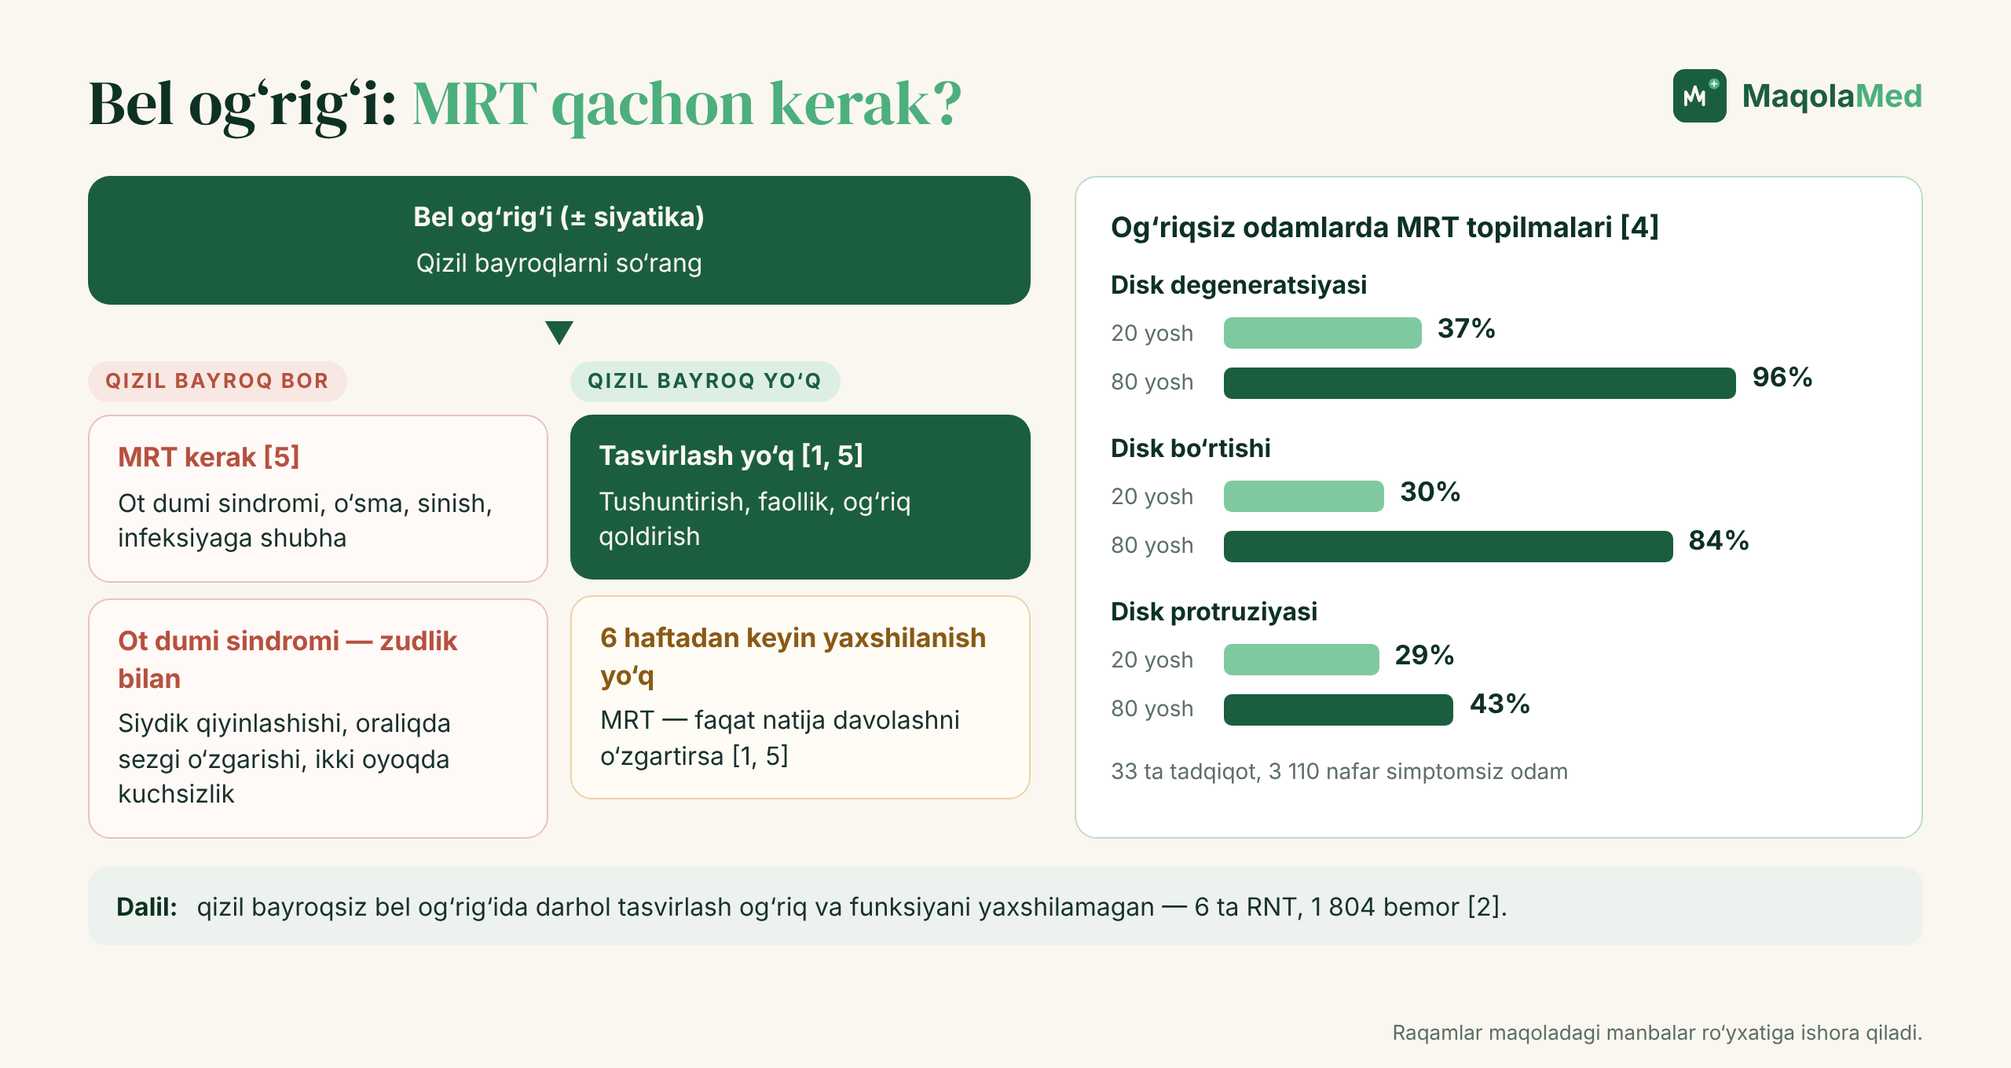
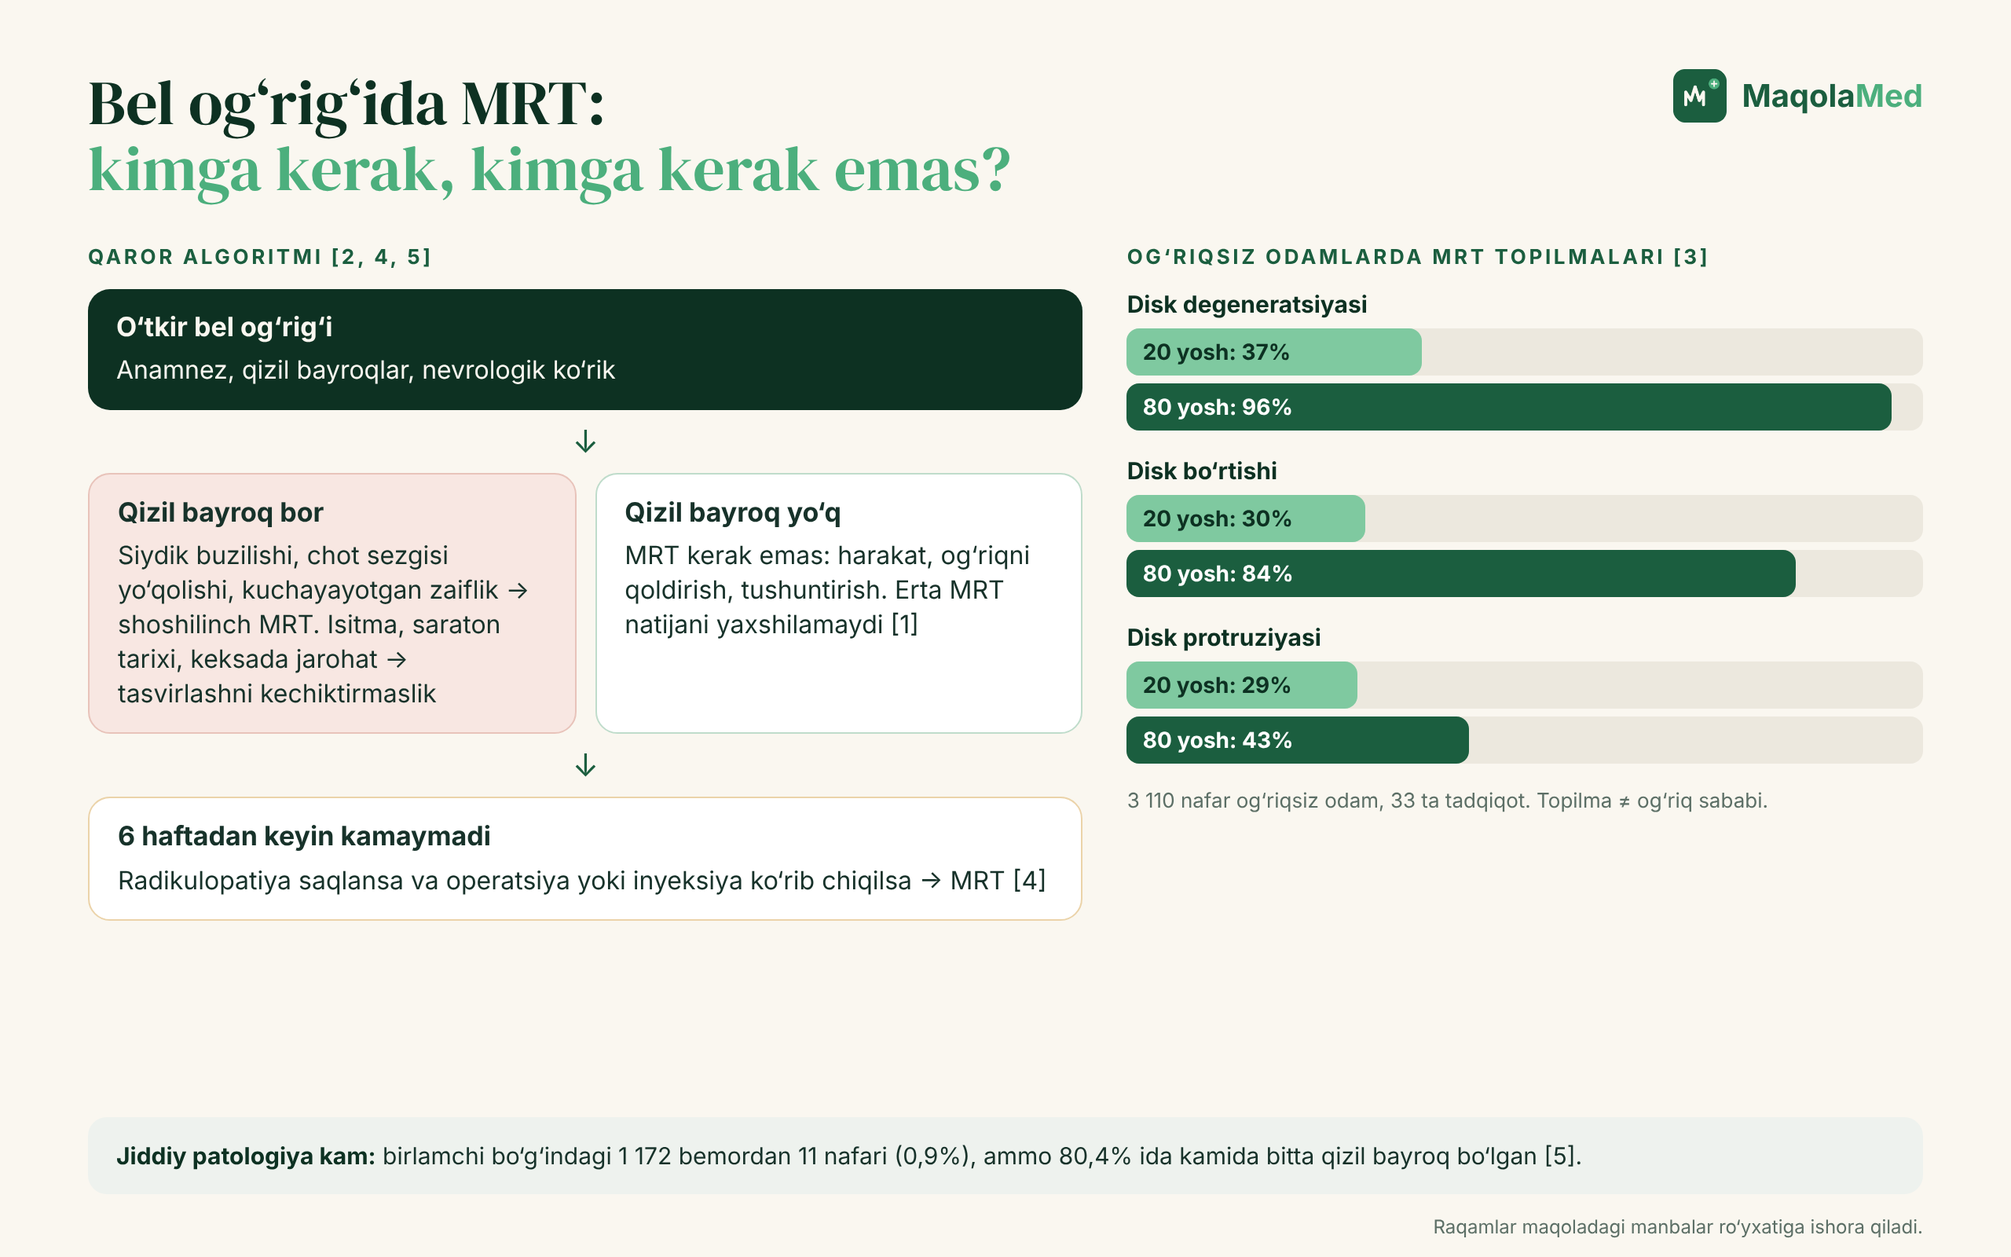
13-dekabr maqolasi qayta yozildi (v2, humanizer): bel og‘rig‘ida MRT — muqovalar, 1 rasm

diff --git a/_manba/2026-12-13/muqova-instagram-4x5.html b/_manba/2026-12-13/muqova-instagram-4x5.html
@@ -1,0 +1,87 @@
+<!doctype html>
+<html lang="uz">
+<head><base href="file:///home/claude/maqolamed-rasmlar/_shablon/">
+<meta charset="utf-8">
+<style>
+@font-face{font-family:"DM Serif Display";src:url("fonts/dm-serif-display-latin-400-normal.woff2") format("woff2");}
+@font-face{font-family:"DM Serif Display";src:url("fonts/dm-serif-display-latin-ext-400-normal.woff2") format("woff2");unicode-range:U+0100-024F,U+1E00-1EFF;}
+:root{
+  --emerald:#1B5E3F; --deep:#0D3122; --cream:#FAF7F0; --mint:#7FC9A0; --green:#4CAF7D;
+}
+*{margin:0;padding:0;box-sizing:border-box}
+html,body{width:1280px;height:720px;overflow:hidden;background:var(--deep)}
+.cover{position:relative;width:1280px;height:720px;overflow:hidden;font-family:"Inter",sans-serif;color:var(--cream);
+  background:
+    radial-gradient(900px 600px at 78% 40%, rgba(76,175,125,.22), transparent 60%),
+    radial-gradient(700px 500px at 0% 100%, rgba(13,49,34,.9), transparent 70%),
+    linear-gradient(135deg,#123F2C 0%, #1B5E3F 55%, #164D34 100%);}
+.grid{position:absolute;inset:0;background-image:
+    linear-gradient(rgba(250,247,240,.035) 1px,transparent 1px),
+    linear-gradient(90deg,rgba(250,247,240,.035) 1px,transparent 1px);
+  background-size:40px 40px;}
+.ekg{position:absolute;left:0;top:300px;width:1280px;height:200px;opacity:.16}
+.left{position:absolute;left:64px;top:52px;width:690px}
+.brand{display:flex;align-items:center;gap:28px}
+.brand img{height:62px;display:block}
+.tag{display:flex;align-items:center;gap:14px;font-size:13px;letter-spacing:.32em;color:rgba(250,247,240,.72);font-weight:500}
+.tag i{width:4px;height:4px;border-radius:50%;background:var(--mint);display:inline-block}
+.tag .line{width:90px;height:1px;background:rgba(250,247,240,.35)}
+.kicker{margin-top:54px;display:inline-flex;align-items:center;gap:10px;font-size:15px;font-weight:600;letter-spacing:.14em;text-transform:uppercase;color:var(--mint)}
+.kicker span{display:inline-block;width:28px;height:2px;background:var(--mint)}
+h1{margin-top:16px;font-family:"DM Serif Display",serif;font-weight:400;font-size:78px;line-height:.98;letter-spacing:-.01em;color:var(--cream)}
+h1 em{font-style:normal;color:var(--mint)}
+.sub{margin-top:22px;font-size:21px;color:rgba(250,247,240,.82);font-weight:400}
+.points{position:absolute;left:64px;bottom:50px;display:flex;gap:0}
+.pt{width:172px;padding-right:18px;display:flex;flex-direction:column;align-items:flex-start;gap:12px}
+.pt + .pt{padding-left:22px;border-left:1px solid rgba(250,247,240,.18)}
+.ic{width:52px;height:52px;border-radius:50%;border:1.6px solid rgba(250,247,240,.75);display:grid;place-items:center}
+.ic svg{width:26px;height:26px;stroke:var(--cream);fill:none;stroke-width:1.7;stroke-linecap:round;stroke-linejoin:round}
+.pt p{font-size:15px;line-height:1.3;color:rgba(250,247,240,.92);font-weight:500}
+.card{position:absolute;right:56px;top:96px;width:400px;border-radius:22px;padding:28px 30px 26px;
+  background:linear-gradient(160deg,rgba(13,49,34,.82),rgba(13,49,34,.62));
+  border:1px solid rgba(127,201,160,.35);box-shadow:0 30px 60px rgba(0,0,0,.35)}
+.card .ch{display:flex;justify-content:space-between;align-items:center}
+.card .lbl{font-size:12px;letter-spacing:.24em;font-weight:600;color:var(--mint)}
+.card .pill{font-size:12px;font-weight:600;padding:5px 10px;border-radius:999px;background:rgba(127,201,160,.16);color:var(--mint)}
+.card h3{margin-top:14px;font-size:22px;font-weight:600}
+.card h3 small{display:block;margin-top:4px;font-size:14px;font-weight:400;color:rgba(250,247,240,.65)}
+.rows{margin-top:18px;border-top:1px solid rgba(250,247,240,.14)}
+.row{display:flex;justify-content:space-between;padding:9px 0;border-bottom:1px solid rgba(250,247,240,.10);font-size:16px}
+.row span:first-child{color:rgba(250,247,240,.68)}
+.row span:last-child{font-weight:600;font-variant-numeric:tabular-nums}
+.row .ok{color:var(--mint)}
+.quote{margin-top:18px;font-family:"DM Serif Display",serif;font-size:21px;line-height:1.25;color:var(--cream)}
+.ask{margin-top:16px;display:flex;align-items:center;justify-content:space-between;padding:13px 16px;border-radius:12px;background:var(--green);color:#0D3122;font-weight:700;font-size:17px}
+.ask svg{width:22px;height:22px;stroke:#0D3122;fill:none;stroke-width:2.2;stroke-linecap:round;stroke-linejoin:round}
+
+html,body{width:1080px;height:1350px}
+.cover{width:1080px;height:1350px}
+.ekg{top:525px;width:1080px}
+.left{left:72px;top:64px;width:940px}
+.brand img{height:72px}
+h1{font-size:96px;margin-top:18px}
+.kicker{margin-top:56px;font-size:17px}
+.sub{font-size:24px}
+.card{left:72px;right:72px;top:auto;bottom:250px;width:auto;padding:30px 34px}
+.rows{display:grid;grid-template-columns:1fr 1fr;column-gap:40px}
+.quote{font-size:24px}
+.points{left:72px;right:72px;bottom:60px}
+.pt{width:auto;flex:1}
+.pt p{font-size:17px}
+
+
+
+h1{font-size:100px}
+</style>
+</head>
+<body><div class="cover"><div class="grid"></div>
+<svg class="ekg" viewBox="0 0 1280 200" preserveAspectRatio="none"><polyline fill="none" stroke="#7FC9A0" stroke-width="3" stroke-linejoin="round" stroke-linecap="round" points="0,120 640,120 670,120 690,98 710,120 750,120 770,40 795,175 820,120 880,120 905,102 930,120 1280,120"/></svg>
+<div class="left"><div class="brand"><img src="logo_dark_bg.png" alt="MaqolaMed"></div>
+<div class="tag" style="margin-top:22px"><span>ILM</span><i></i><span>AMALIYOT</span><i></i><span>ODAM UCHUN</span><span class="line"></span></div>
+<div class="kicker"><span></span>Klinik savol · Nevrologiya</div>
+<h1>Bel og‘rig‘ida<br>MRT qachon<br><em>kerak?</em></h1>
+<div class="sub">MRT tasvirni ko‘rsatadi, og‘riq sababini emas.</div></div>
+<div class="points"><div class="pt"><div class="ic"><svg viewBox="0 0 24 24"><circle cx="12" cy="12" r="9"/><path d="M9.5 9.5a2.5 2.5 0 1 1 3.5 2.3c-.7.3-1 .8-1 1.5v.7"/><path d="M12 17v.5"/></svg></div><p>Erta MRT foyda beradimi?</p></div><div class="pt"><div class="ic"><svg viewBox="0 0 24 24"><path d="M4 20V4"/><path d="M4 20h16"/><path d="M8 16l4-5 3 3 5-7"/></svg></div><p>Og‘riqsiz odamda «churra»?</p></div><div class="pt"><div class="ic"><svg viewBox="0 0 24 24"><path d="M12 3l9.5 17h-19z"/><path d="M12 10v4"/><path d="M12 17v.5"/></svg></div><p>Qaysi qizil bayroqlar?</p></div><div class="pt"><div class="ic"><svg viewBox="0 0 24 24"><circle cx="12" cy="12" r="9"/><path d="M12 7v5l3 2"/></svg></div><p>6 haftadan keyin nima?</p></div></div>
+<div class="card"><div class="ch"><span class="lbl">OG‘RIQSIZ ODAMLARDA</span><span class="pill">MRT</span></div>
+<h3>Topilmalar 20 → 80 yosh<small>Brinjikji 2015 · 3 110 kishi</small></h3><div class="rows"><div class="row"><span>Disk degeneratsiyasi</span><span class="ok">37% → 96%</span></div><div class="row"><span>Disk bo‘rtishi</span><span class="">30% → 84%</span></div><div class="row"><span>Protruziya</span><span class="">29% → 43%</span></div><div class="row"><span>Jiddiy sabab (bel og‘rig‘ida)</span><span class="ok">0,9%</span></div></div><div class="quote">«Doktor, operatsiya kerakmi?»</div><div class="ask">Siz nima qilardingiz?<svg viewBox="0 0 24 24"><path d="M5 12h14"/><path d="M13 6l6 6-6 6"/></svg></div></div>
+</div></body></html>

diff --git a/_manba/2026-12-13/muqova-16x9.html b/_manba/2026-12-13/muqova-16x9.html
@@ -1,0 +1,70 @@
+<!doctype html>
+<html lang="uz">
+<head><base href="file:///home/claude/maqolamed-rasmlar/_shablon/">
+<meta charset="utf-8">
+<style>
+@font-face{font-family:"DM Serif Display";src:url("fonts/dm-serif-display-latin-400-normal.woff2") format("woff2");}
+@font-face{font-family:"DM Serif Display";src:url("fonts/dm-serif-display-latin-ext-400-normal.woff2") format("woff2");unicode-range:U+0100-024F,U+1E00-1EFF;}
+:root{
+  --emerald:#1B5E3F; --deep:#0D3122; --cream:#FAF7F0; --mint:#7FC9A0; --green:#4CAF7D;
+}
+*{margin:0;padding:0;box-sizing:border-box}
+html,body{width:1280px;height:720px;overflow:hidden;background:var(--deep)}
+.cover{position:relative;width:1280px;height:720px;overflow:hidden;font-family:"Inter",sans-serif;color:var(--cream);
+  background:
+    radial-gradient(900px 600px at 78% 40%, rgba(76,175,125,.22), transparent 60%),
+    radial-gradient(700px 500px at 0% 100%, rgba(13,49,34,.9), transparent 70%),
+    linear-gradient(135deg,#123F2C 0%, #1B5E3F 55%, #164D34 100%);}
+.grid{position:absolute;inset:0;background-image:
+    linear-gradient(rgba(250,247,240,.035) 1px,transparent 1px),
+    linear-gradient(90deg,rgba(250,247,240,.035) 1px,transparent 1px);
+  background-size:40px 40px;}
+.ekg{position:absolute;left:0;top:300px;width:1280px;height:200px;opacity:.16}
+.left{position:absolute;left:64px;top:52px;width:690px}
+.brand{display:flex;align-items:center;gap:28px}
+.brand img{height:62px;display:block}
+.tag{display:flex;align-items:center;gap:14px;font-size:13px;letter-spacing:.32em;color:rgba(250,247,240,.72);font-weight:500}
+.tag i{width:4px;height:4px;border-radius:50%;background:var(--mint);display:inline-block}
+.tag .line{width:90px;height:1px;background:rgba(250,247,240,.35)}
+.kicker{margin-top:54px;display:inline-flex;align-items:center;gap:10px;font-size:15px;font-weight:600;letter-spacing:.14em;text-transform:uppercase;color:var(--mint)}
+.kicker span{display:inline-block;width:28px;height:2px;background:var(--mint)}
+h1{margin-top:16px;font-family:"DM Serif Display",serif;font-weight:400;font-size:78px;line-height:.98;letter-spacing:-.01em;color:var(--cream)}
+h1 em{font-style:normal;color:var(--mint)}
+.sub{margin-top:22px;font-size:21px;color:rgba(250,247,240,.82);font-weight:400}
+.points{position:absolute;left:64px;bottom:50px;display:flex;gap:0}
+.pt{width:172px;padding-right:18px;display:flex;flex-direction:column;align-items:flex-start;gap:12px}
+.pt + .pt{padding-left:22px;border-left:1px solid rgba(250,247,240,.18)}
+.ic{width:52px;height:52px;border-radius:50%;border:1.6px solid rgba(250,247,240,.75);display:grid;place-items:center}
+.ic svg{width:26px;height:26px;stroke:var(--cream);fill:none;stroke-width:1.7;stroke-linecap:round;stroke-linejoin:round}
+.pt p{font-size:15px;line-height:1.3;color:rgba(250,247,240,.92);font-weight:500}
+.card{position:absolute;right:56px;top:96px;width:400px;border-radius:22px;padding:28px 30px 26px;
+  background:linear-gradient(160deg,rgba(13,49,34,.82),rgba(13,49,34,.62));
+  border:1px solid rgba(127,201,160,.35);box-shadow:0 30px 60px rgba(0,0,0,.35)}
+.card .ch{display:flex;justify-content:space-between;align-items:center}
+.card .lbl{font-size:12px;letter-spacing:.24em;font-weight:600;color:var(--mint)}
+.card .pill{font-size:12px;font-weight:600;padding:5px 10px;border-radius:999px;background:rgba(127,201,160,.16);color:var(--mint)}
+.card h3{margin-top:14px;font-size:22px;font-weight:600}
+.card h3 small{display:block;margin-top:4px;font-size:14px;font-weight:400;color:rgba(250,247,240,.65)}
+.rows{margin-top:18px;border-top:1px solid rgba(250,247,240,.14)}
+.row{display:flex;justify-content:space-between;padding:9px 0;border-bottom:1px solid rgba(250,247,240,.10);font-size:16px}
+.row span:first-child{color:rgba(250,247,240,.68)}
+.row span:last-child{font-weight:600;font-variant-numeric:tabular-nums}
+.row .ok{color:var(--mint)}
+.quote{margin-top:18px;font-family:"DM Serif Display",serif;font-size:21px;line-height:1.25;color:var(--cream)}
+.ask{margin-top:16px;display:flex;align-items:center;justify-content:space-between;padding:13px 16px;border-radius:12px;background:var(--green);color:#0D3122;font-weight:700;font-size:17px}
+.ask svg{width:22px;height:22px;stroke:#0D3122;fill:none;stroke-width:2.2;stroke-linecap:round;stroke-linejoin:round}
+
+h1{font-size:76px}
+</style>
+</head>
+<body><div class="cover"><div class="grid"></div>
+<svg class="ekg" viewBox="0 0 1280 200" preserveAspectRatio="none"><polyline fill="none" stroke="#7FC9A0" stroke-width="3" stroke-linejoin="round" stroke-linecap="round" points="0,120 640,120 670,120 690,98 710,120 750,120 770,40 795,175 820,120 880,120 905,102 930,120 1280,120"/></svg>
+<div class="left"><div class="brand"><img src="logo_dark_bg.png" alt="MaqolaMed"></div>
+<div class="tag" style="margin-top:22px"><span>ILM</span><i></i><span>AMALIYOT</span><i></i><span>ODAM UCHUN</span><span class="line"></span></div>
+<div class="kicker"><span></span>Klinik savol · Nevrologiya</div>
+<h1>Bel og‘rig‘ida<br>MRT qachon<br><em>kerak?</em></h1>
+<div class="sub">MRT tasvirni ko‘rsatadi, og‘riq sababini emas.</div></div>
+<div class="points"><div class="pt"><div class="ic"><svg viewBox="0 0 24 24"><circle cx="12" cy="12" r="9"/><path d="M9.5 9.5a2.5 2.5 0 1 1 3.5 2.3c-.7.3-1 .8-1 1.5v.7"/><path d="M12 17v.5"/></svg></div><p>Erta MRT foyda beradimi?</p></div><div class="pt"><div class="ic"><svg viewBox="0 0 24 24"><path d="M4 20V4"/><path d="M4 20h16"/><path d="M8 16l4-5 3 3 5-7"/></svg></div><p>Og‘riqsiz odamda «churra»?</p></div><div class="pt"><div class="ic"><svg viewBox="0 0 24 24"><path d="M12 3l9.5 17h-19z"/><path d="M12 10v4"/><path d="M12 17v.5"/></svg></div><p>Qaysi qizil bayroqlar?</p></div><div class="pt"><div class="ic"><svg viewBox="0 0 24 24"><circle cx="12" cy="12" r="9"/><path d="M12 7v5l3 2"/></svg></div><p>6 haftadan keyin nima?</p></div></div>
+<div class="card"><div class="ch"><span class="lbl">OG‘RIQSIZ ODAMLARDA</span><span class="pill">MRT</span></div>
+<h3>Topilmalar 20 → 80 yosh<small>Brinjikji 2015 · 3 110 kishi</small></h3><div class="rows"><div class="row"><span>Disk degeneratsiyasi</span><span class="ok">37% → 96%</span></div><div class="row"><span>Disk bo‘rtishi</span><span class="">30% → 84%</span></div><div class="row"><span>Protruziya</span><span class="">29% → 43%</span></div><div class="row"><span>Jiddiy sabab (bel og‘rig‘ida)</span><span class="ok">0,9%</span></div></div><div class="quote">«Doktor, operatsiya kerakmi?»</div><div class="ask">Siz nima qilardingiz?<svg viewBox="0 0 24 24"><path d="M5 12h14"/><path d="M13 6l6 6-6 6"/></svg></div></div>
+</div></body></html>

diff --git a/_manba/2026-12-13/1-rasm.html b/_manba/2026-12-13/1-rasm.html
@@ -1,0 +1,53 @@
+<!doctype html><html lang="uz"><head><meta charset="utf-8"><base href="file:///home/claude/maqolamed-rasmlar/_shablon/">
+<style>
+@font-face{font-family:"DM Serif Display";src:url("fonts/dm-serif-display-latin-400-normal.woff2") format("woff2");}
+@font-face{font-family:"DM Serif Display";src:url("fonts/dm-serif-display-latin-ext-400-normal.woff2") format("woff2");unicode-range:U+0100-024F,U+1E00-1EFF;}
+:root{--emerald:#1B5E3F;--deep:#0D3122;--cream:#FAF7F0;--mint:#7FC9A0;--green:#4CAF7D;--ink:#17322A;--muted:#5C6F66;--amber:#C98A2E;--amberbg:#FBF1E1;--red:#B5513F;--redbg:#F8E7E2;--tint:#E6F3EC}
+*{margin:0;padding:0;box-sizing:border-box}
+html,body{width:1280px;height:var(--H,900px);background:var(--cream);overflow:hidden}
+.fig{position:relative;width:1280px;height:var(--H,900px);padding:44px 56px;font-family:"Inter",sans-serif;color:var(--ink)}
+.top{display:flex;justify-content:space-between;align-items:flex-start;margin-bottom:28px}
+h1{font-family:"DM Serif Display",serif;font-weight:400;font-size:40px;line-height:1.05;color:var(--deep)}
+h1 em{font-style:normal;color:var(--green)}
+.brand{display:flex;align-items:center;gap:10px;font-weight:700;font-size:20px;color:var(--emerald)}
+.brand img{height:34px}.brand b{color:var(--green);font-weight:700}
+table{width:100%;border-collapse:separate;border-spacing:0 8px;font-size:16px;line-height:1.35}
+th{text-align:left;font-size:12px;letter-spacing:.14em;text-transform:uppercase;color:var(--muted);padding:0 18px 2px;font-weight:700}
+td{background:#fff;padding:13px 18px;vertical-align:middle}
+td:first-child{border-radius:12px 0 0 12px;font-weight:700;color:var(--deep)}
+td:last-child{border-radius:0 12px 12px 0}
+td.new{background:var(--tint)} td.same{background:#F1EEE6;color:var(--muted)}
+td.warn{background:var(--redbg)}
+.badge{display:inline-block;font-size:11px;font-weight:700;letter-spacing:.08em;padding:4px 9px;border-radius:999px;margin-right:8px;vertical-align:1px}
+.b-new{background:var(--emerald);color:var(--cream)} .b-same{background:#E2DED3;color:var(--muted)} .b-red{background:var(--red);color:#fff} .b-amb{background:var(--amber);color:#fff}
+.muted{color:var(--muted)}
+.node{border-radius:14px;padding:14px 18px;font-size:16px;line-height:1.38}
+.node b{display:block;font-size:17px;margin-bottom:3px}
+.n-dark{background:var(--emerald);color:var(--cream)} .n-deep{background:var(--deep);color:var(--cream)}
+.n-white{background:#fff;border:1.5px solid #BFDCCB} .n-amb{background:#fff;border:1.5px solid #EBD3A9} .n-red{background:var(--redbg);border:1.5px solid #E8C3BA}
+.tagc{display:inline-block;font-size:12px;font-weight:700;letter-spacing:.12em;text-transform:uppercase;padding:6px 12px;border-radius:999px}
+.t-g{background:#DDEFE5;color:var(--emerald)} .t-a{background:var(--amberbg);color:#8A5A14} .t-r{background:var(--redbg);color:var(--red)}
+.note{position:absolute;left:56px;right:56px;bottom:40px;padding:14px 18px;border-radius:12px;background:#EEF2EE;font-size:15px;line-height:1.4}
+.note b{color:var(--deep)}
+.src{position:absolute;right:56px;bottom:12px;font-size:12px;color:var(--muted)}
+.arrow{stroke:var(--emerald);stroke-width:2.2;fill:none}
+</style></head><body><style>:root{--H:800px}
+.wrap{display:grid;grid-template-columns:1.25fr 1fr;gap:28px}
+.col h2{font-size:13px;letter-spacing:.14em;text-transform:uppercase;color:var(--emerald);margin-bottom:12px}
+.fl{display:flex;flex-direction:column;gap:10px}.ar{text-align:center;color:var(--emerald);font-size:20px;line-height:1}
+.two{display:grid;grid-template-columns:1fr 1fr;gap:12px}
+.bar{margin-bottom:16px}.bar .l{font-size:15px;font-weight:700;color:var(--deep);margin-bottom:6px}
+.track{position:relative;height:30px;background:#ECE8DE;border-radius:8px;margin-bottom:5px}
+.fill{position:absolute;left:0;top:0;bottom:0;border-radius:8px;display:flex;align-items:center;padding-left:10px;font-size:14px;font-weight:700;color:#fff}
+.f20{background:var(--mint);color:var(--deep)}.f80{background:var(--emerald)}
+.cap{font-size:13px;color:var(--muted)}
+</style>
+<div class="fig"><div class="top"><h1>Bel og‘rig‘ida MRT:<br><em>kimga kerak, kimga kerak emas?</em></h1><div class="brand"><img src="icon.png" alt=""><span>Maqola<b>Med</b></span></div></div>
+<div class="wrap"><div class="col"><h2>Qaror algoritmi [2, 4, 5]</h2><div class="fl">
+<div class="node n-deep"><b>O‘tkir bel og‘rig‘i</b>Anamnez, qizil bayroqlar, nevrologik ko‘rik</div><div class="ar">↓</div>
+<div class="two"><div class="node n-red"><b>Qizil bayroq bor</b>Siydik buzilishi, chot sezgisi yo‘qolishi, kuchayayotgan zaiflik → shoshilinch MRT. Isitma, saraton tarixi, keksada jarohat → tasvirlashni kechiktirmaslik</div>
+<div class="node n-white"><b>Qizil bayroq yo‘q</b>MRT kerak emas: harakat, og‘riqni qoldirish, tushuntirish. Erta MRT natijani yaxshilamaydi [1]</div></div><div class="ar">↓</div>
+<div class="node n-amb"><b>6 haftadan keyin kamaymadi</b>Radikulopatiya saqlansa va operatsiya yoki inyeksiya ko‘rib chiqilsa → MRT [4]</div>
+</div></div><div class="col"><h2>Og‘riqsiz odamlarda MRT topilmalari [3]</h2><div class="bar"><div class="l">Disk degeneratsiyasi</div><div class="track"><div class="fill f20" style="width:37%">20 yosh: 37%</div></div><div class="track"><div class="fill f80" style="width:96%">80 yosh: 96%</div></div></div><div class="bar"><div class="l">Disk bo‘rtishi</div><div class="track"><div class="fill f20" style="width:30%">20 yosh: 30%</div></div><div class="track"><div class="fill f80" style="width:84%">80 yosh: 84%</div></div></div><div class="bar"><div class="l">Disk protruziyasi</div><div class="track"><div class="fill f20" style="width:29%">20 yosh: 29%</div></div><div class="track"><div class="fill f80" style="width:43%">80 yosh: 43%</div></div></div><div class="cap">3 110 nafar og‘riqsiz odam, 33 ta tadqiqot. Topilma ≠ og‘riq sababi.</div></div></div>
+<div class="note"><b>Jiddiy patologiya kam:</b> birlamchi bo‘g‘indagi 1 172 bemordan 11 nafari (0,9%), ammo 80,4% ida kamida bitta qizil bayroq bo‘lgan [5].</div>
+<div class="src">Raqamlar maqoladagi manbalar ro‘yxatiga ishora qiladi.</div></div></body></html>
